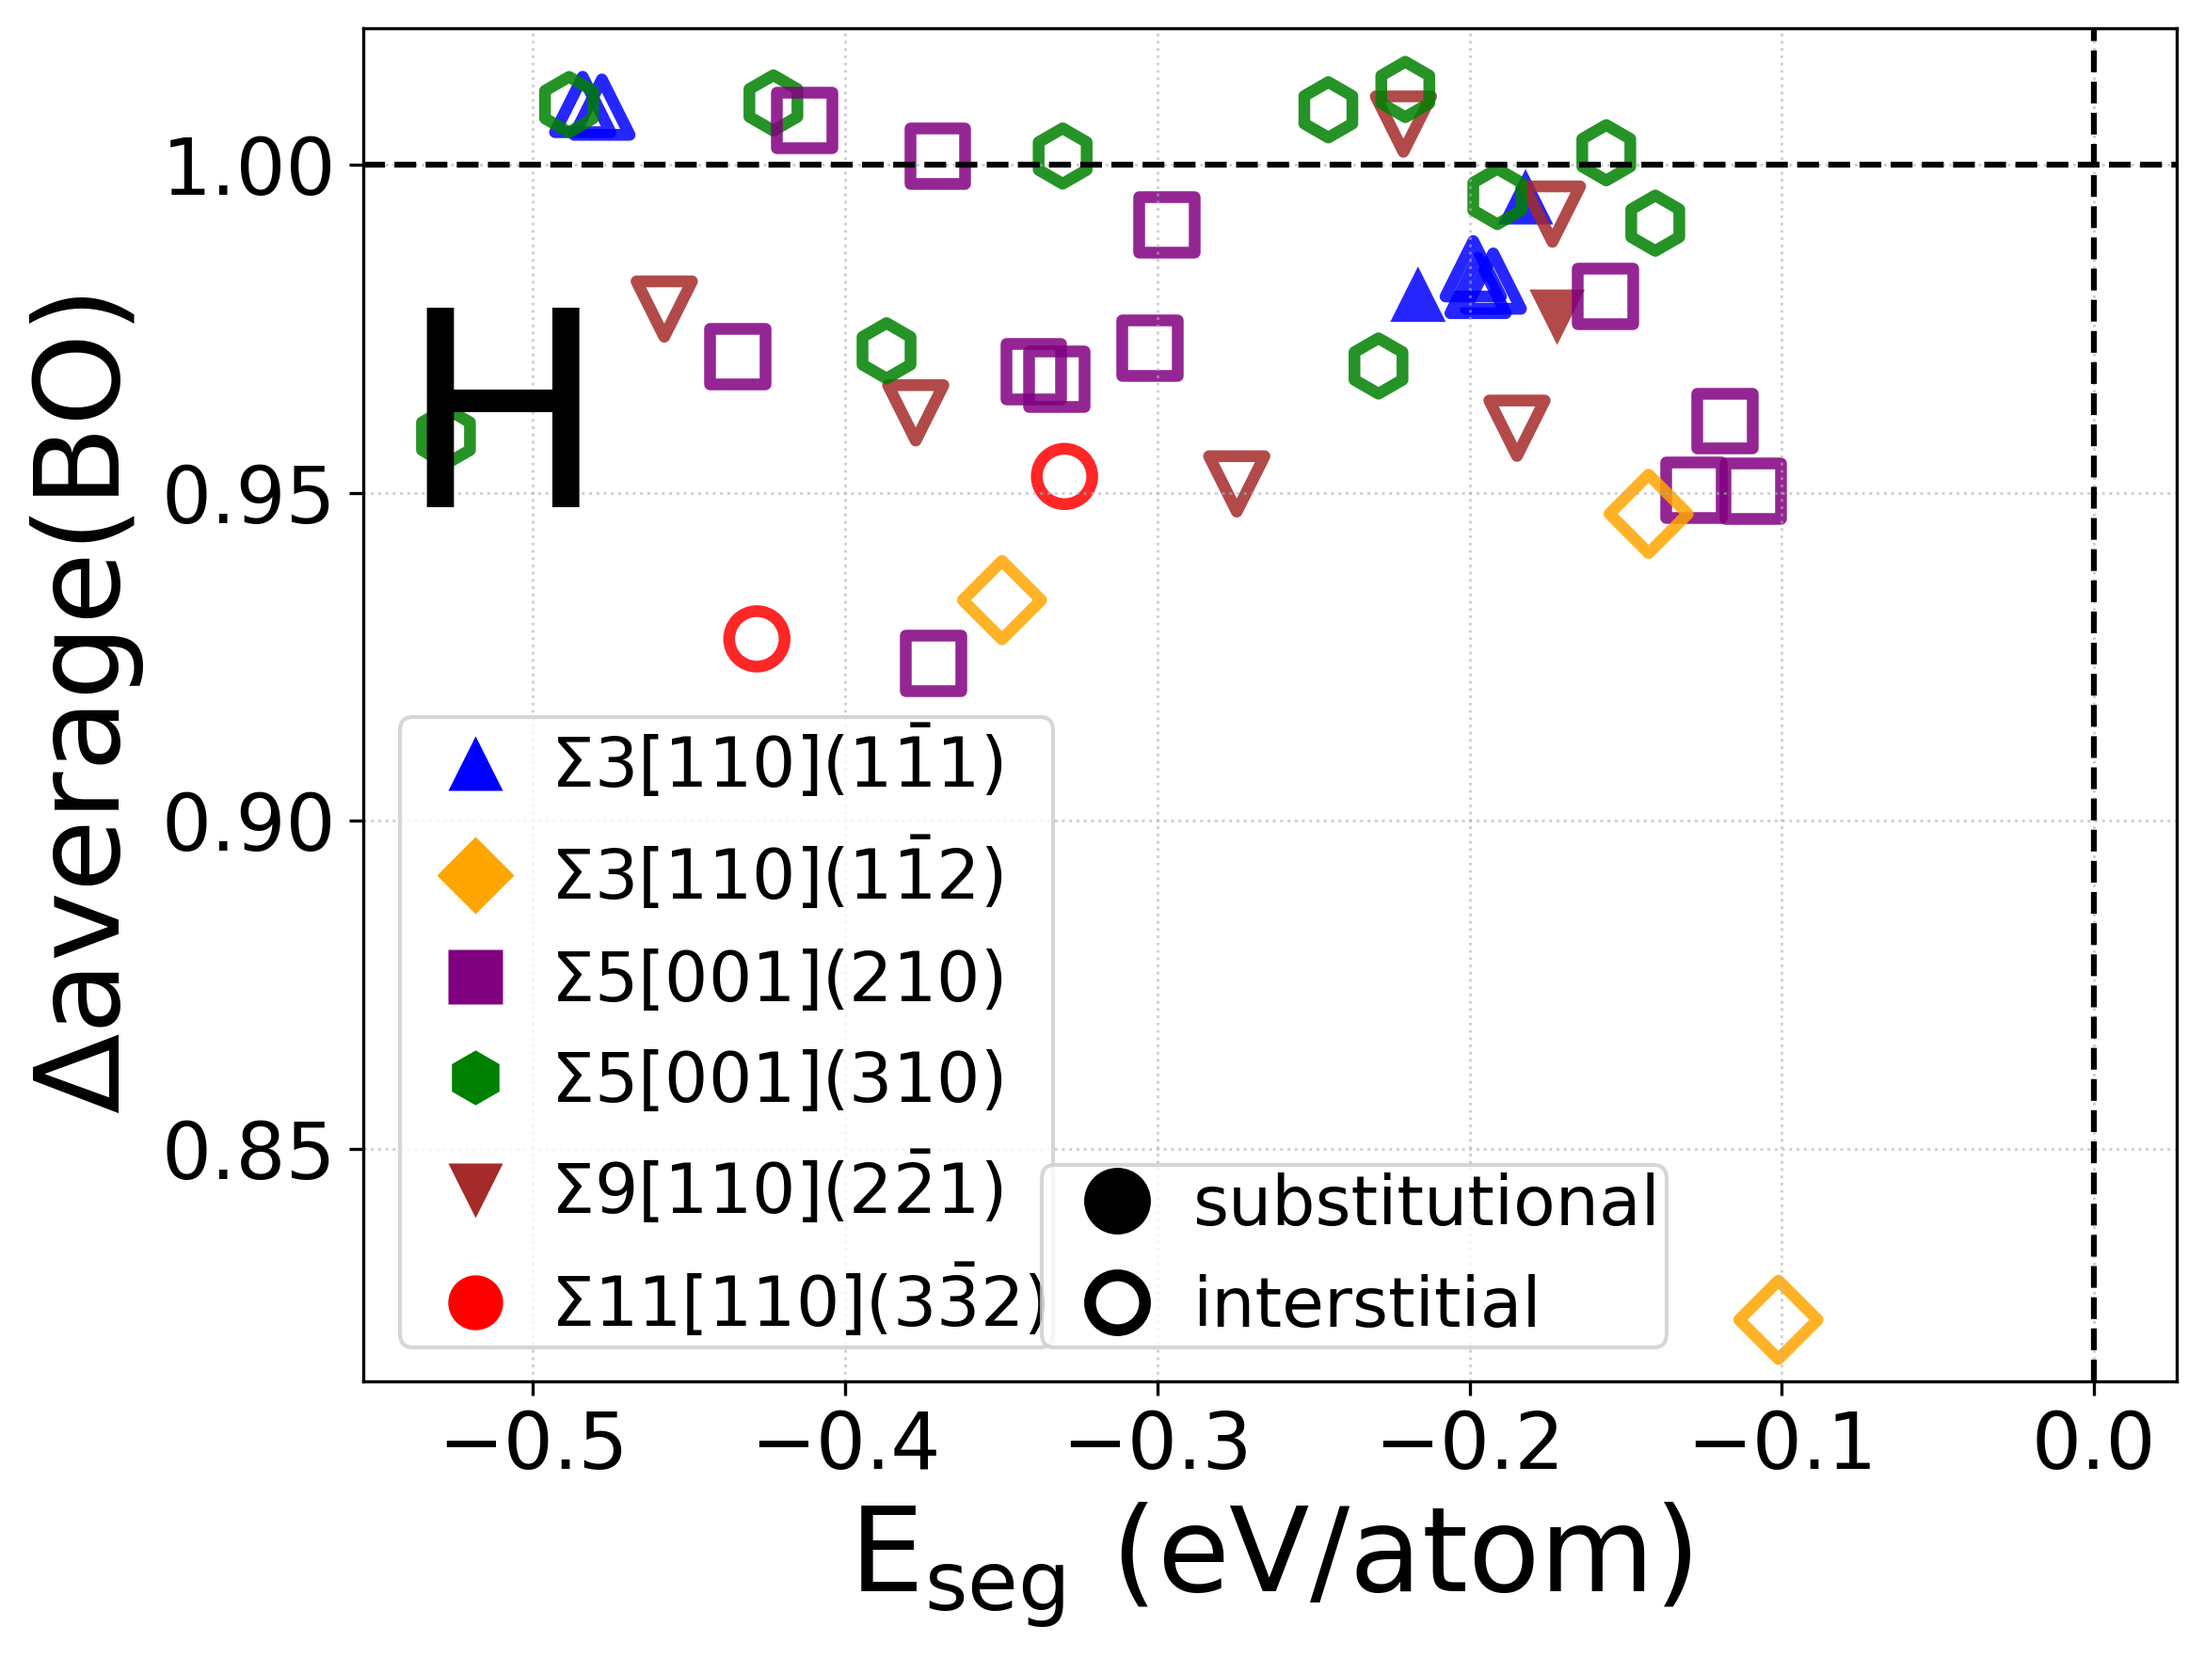
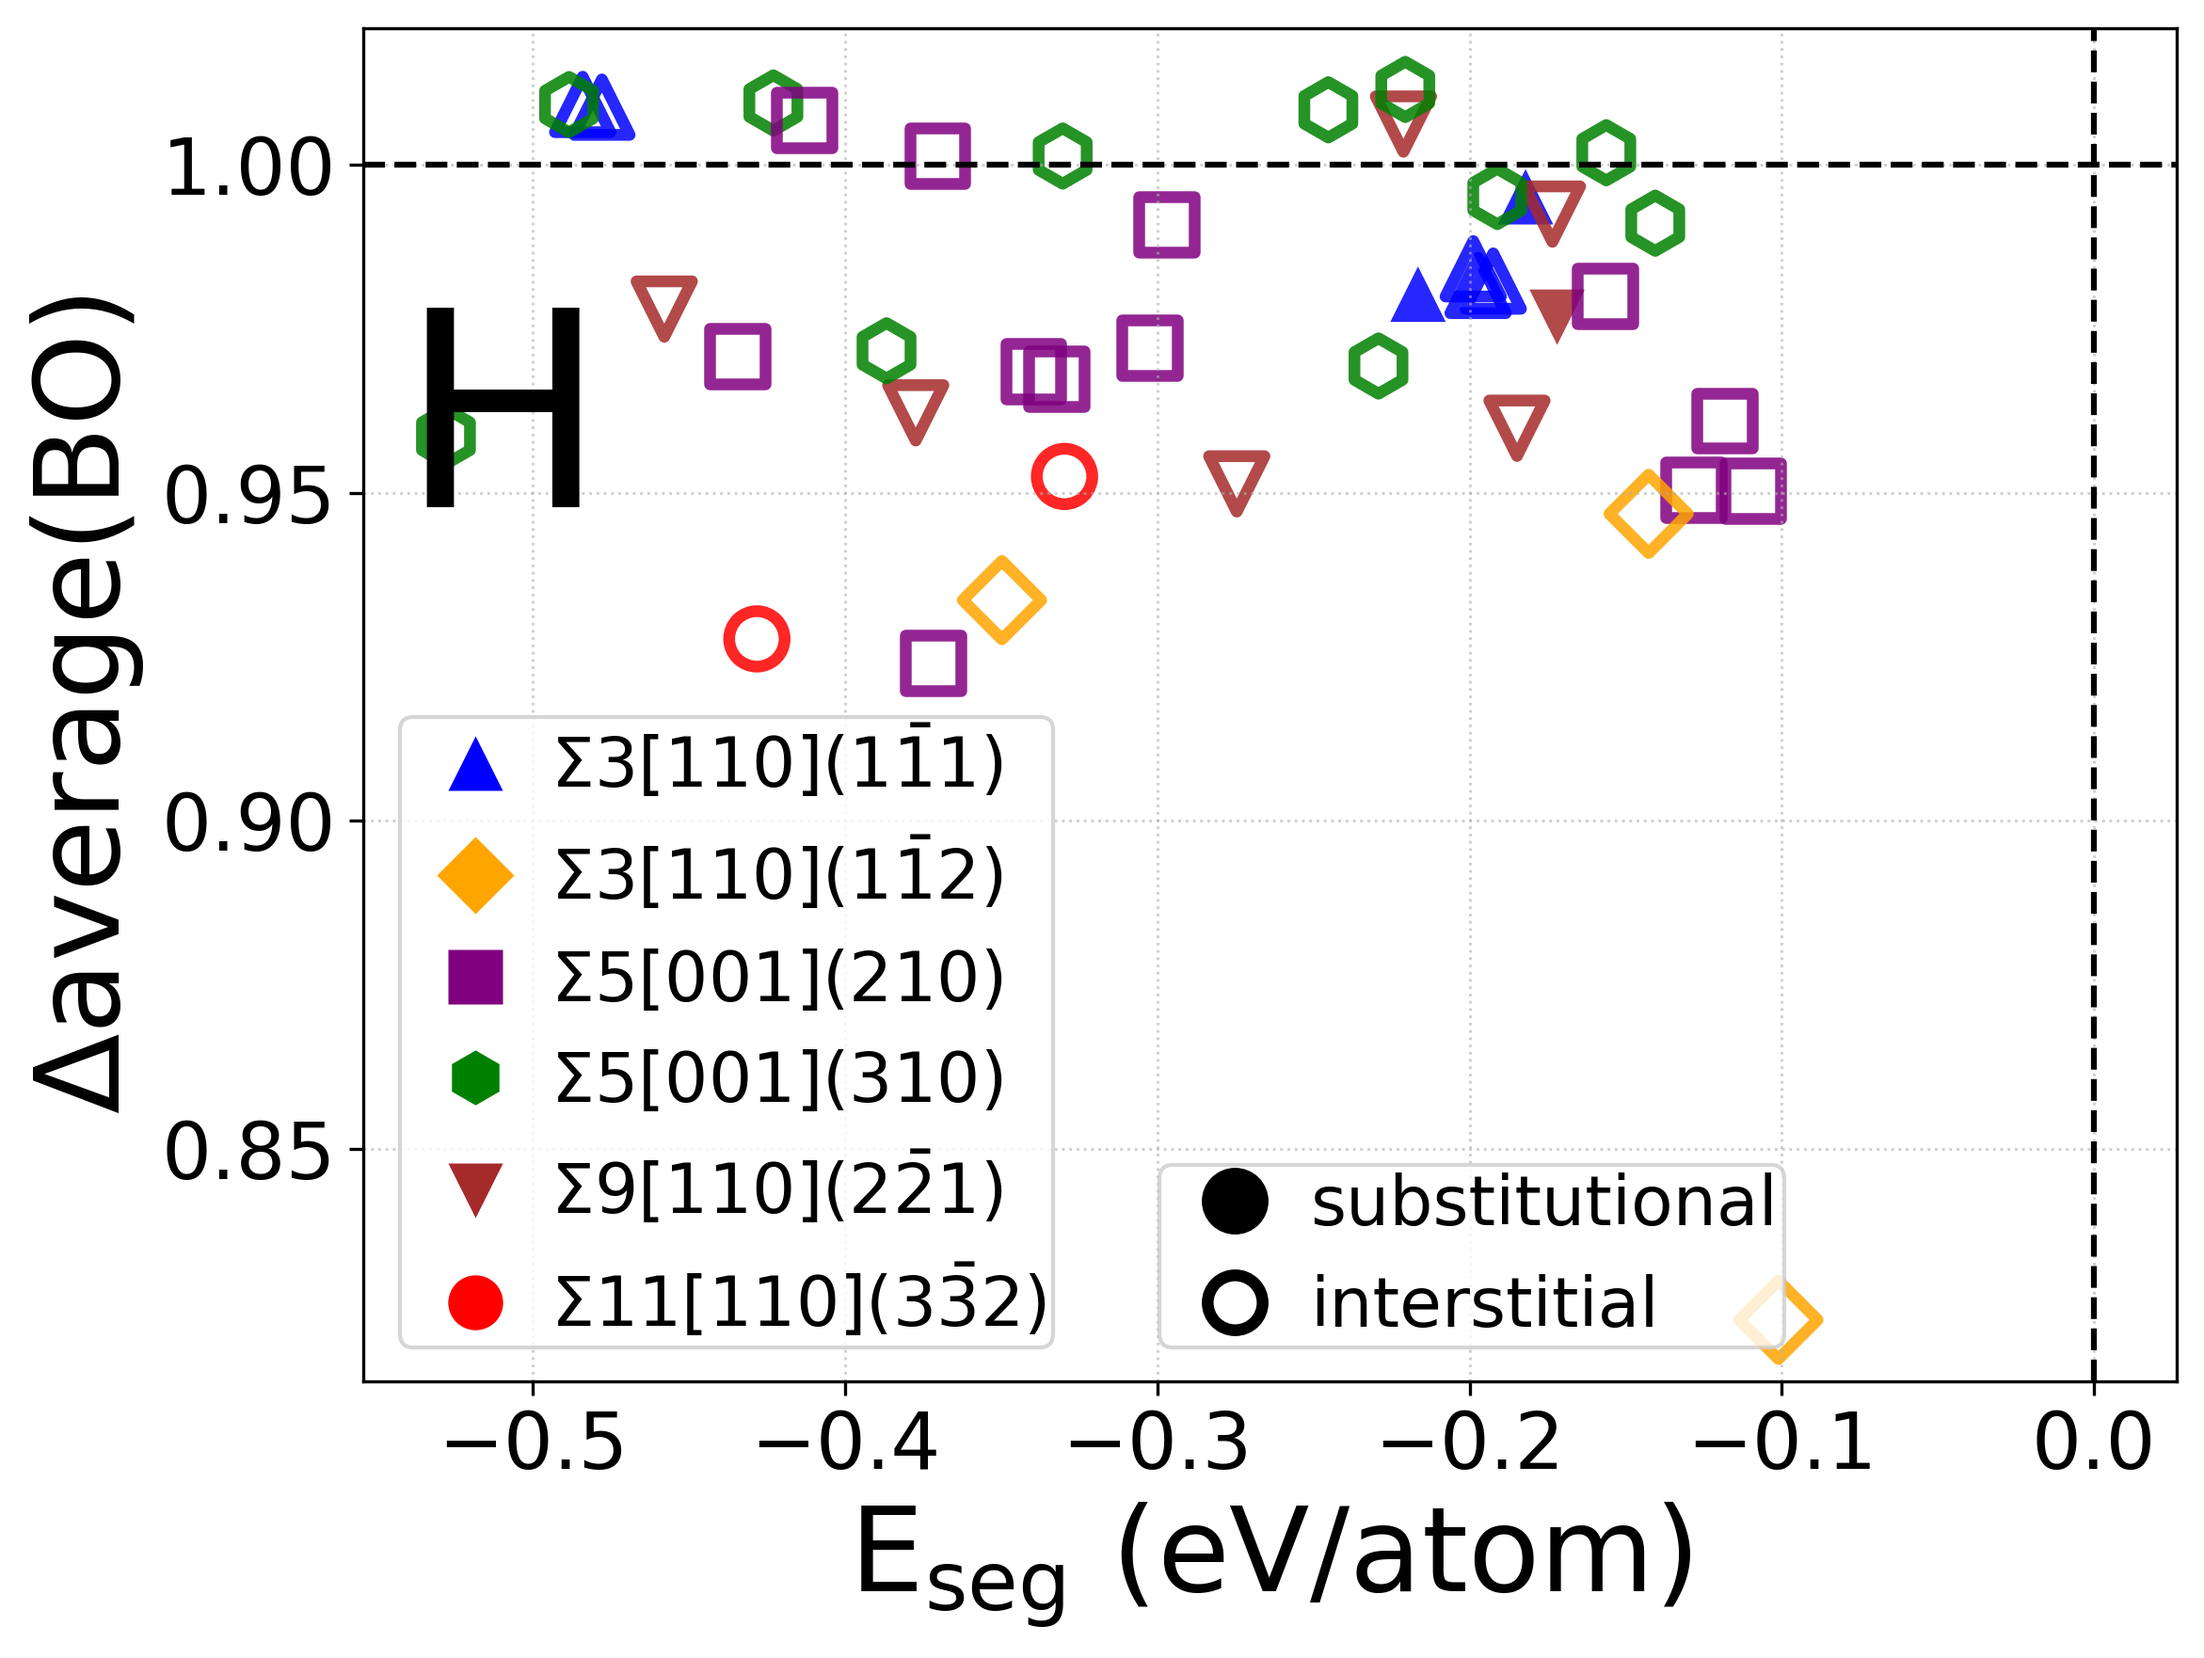
Fine-tune site-type legend positions in Figs 6, 7, 8, 9, 10

Changed region(s): [[0.4675, 0.6867, 0.8104, 0.8116]]

diff --git a/scripts/MainFigures/generate_main_figures.py b/scripts/MainFigures/generate_main_figures.py
@@ -253,7 +253,7 @@ for ele in LIGHT_ELEMENTS:
         y_label=r"E$_{\rm{seg}}$ (eV/atom)",
         show_legend=show, show_style_legend=show,
         legend_anchor=(0.641, -0.01),
-        style_legend_anchor=(0.641, 0.47),
+        style_legend_anchor=(0.58, 0.47),
         **{k: v for k, v in SCATTER_KW.items() if k not in ("legend_anchor", "style_legend_anchor")},
     )
     ax.axhline(0, linestyle="--", color="k")
@@ -300,7 +300,7 @@ if "site_types_mixed" in df_filt.columns:
     ax.set_xticks(x)
     ax.set_xticklabels(elements, fontsize=20)
     ax.set_ylabel("Unique sites in GB set", fontsize=24)
-    ax.legend(fontsize=17.5, loc="upper left", bbox_to_anchor=(0.1, 1.1), ncol=3, frameon=True, borderaxespad=0.1)
+    ax.legend(fontsize=17.5, loc="upper left", bbox_to_anchor=(0.18, 1.1), ncol=3, frameon=True, borderaxespad=0.1)
     ax.tick_params(axis="y", labelsize=20)
 
     # Annotate percentages
@@ -344,7 +344,7 @@ if df_main_path.exists():
     SCATTER_KW_WSEP["legend_fontsize"] = 17.5
     SCATTER_KW_WSEP["style_legend_fontsize"] = 17.5
     SCATTER_KW_WSEP["legend_anchor"] = (0.001, 0.00)
-    SCATTER_KW_WSEP["style_legend_anchor"] = (0.325, 0.00)
+    SCATTER_KW_WSEP["style_legend_anchor"] = (0.325, -0.06)
 
     for ele in LIGHT_ELEMENTS:
         df_ele = df_main[(df_main["element"] == ele) & (df_main["VorNN_tot_vol"] < 20) & (df_main["eta_Wsep_RGS_min"] < 3)]
@@ -409,7 +409,7 @@ if df_main_path.exists():
             y_label=r"$\Delta$average(BO)",
             show_legend=show, show_style_legend=show,
             **{k: v for k, v in SCATTER_KW_WSEP.items() if k not in ("style_legend_anchor",)},
-            style_legend_anchor=(0.355, 0.00),
+            style_legend_anchor=(0.42, 0.00),
         )
         ax.axhline(1, linestyle="--", color="k")
         ax.axvline(0, linestyle="--", color="k")
@@ -460,7 +460,7 @@ for ele in LIGHT_ELEMENTS:
     ax.set_ylabel("Count", fontsize=24)
     ax.tick_params(axis="both", labelsize=20)
     if show_legend:
-        ax.legend(fontsize=20, loc="upper center")
+        ax.legend(fontsize=20, loc="upper center", bbox_to_anchor=(0.42, 1.0))
     ax.text(0.08, 0.92, ele, transform=ax.transAxes, fontsize=70,
             ha="left", va="top")
     fig.tight_layout()
